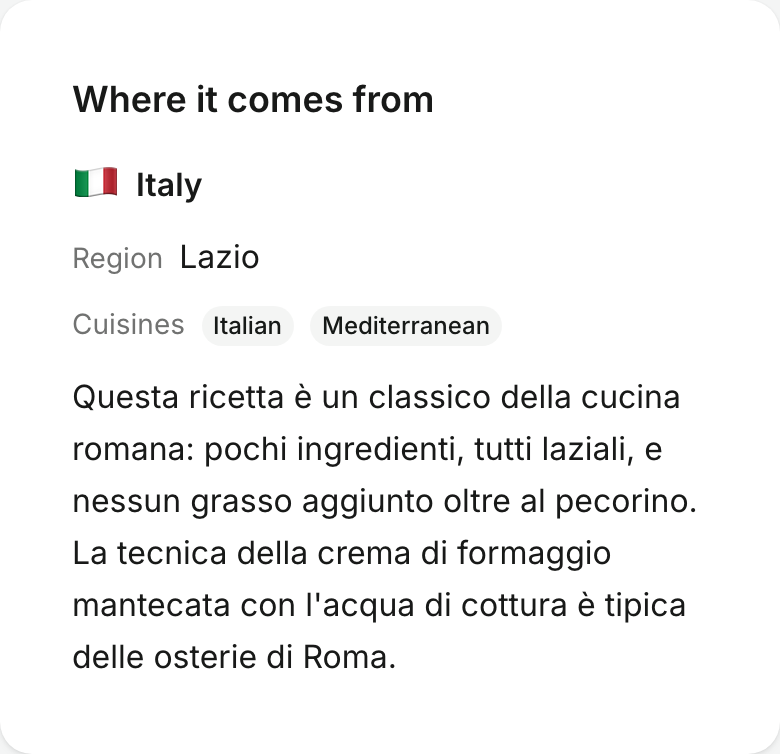
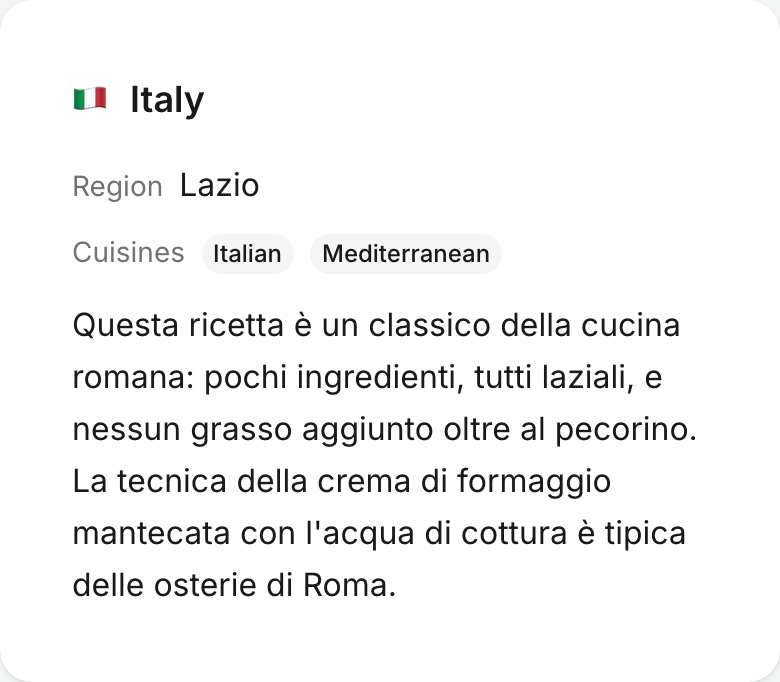
docs: follow the retitled Recipe Provenance section
The pages still described a section headed "Where it comes from" sitting
below the notes, and said nothing about the flag on the dashboard.

The screenshot script's anchor moves with it: the card titles itself with
the country now, so there is no fixed section name to locate it by.

Changed region(s): [[0.0923, 0.2155, 0.8923, 0.893], [0.0923, 0.0924, 0.5538, 0.1848]]

diff --git a/apps/web/e2e-ai/docs-screenshots.shot.ts b/apps/web/e2e-ai/docs-screenshots.shot.ts
@@ -167,9 +167,11 @@ test("provenance on the recipe page", async () => {
     await expect(page.getByText("Italy").first()).toBeVisible({ timeout: 3_000 });
   }).toPass({ timeout: 60_000, intervals: [1_000, 2_000, 5_000] });
 
+  // The card titles itself with the country once one is known, so that heading
+  // is what identifies it — there is no fixed section name to anchor on.
   const section = page
     .locator("div.md\\:block")
-    .getByRole("heading", { name: "Where it comes from" })
+    .getByRole("heading", { name: "Italy", exact: true, level: 2 })
     .locator("xpath=ancestor::div[contains(@class,'rounded-2xl')][1]");
 
   await shoot(section, "provenance-recipe");

diff --git a/apps/docs/docs/recipes/provenance.md b/apps/docs/docs/recipes/provenance.md
@@ -14,10 +14,14 @@ Provenance is where a recipe comes from. Norish records four things:
   several
 - **Note** — a couple of sentences explaining how that was concluded
 
-It appears in its own section on the recipe page, and the country's flag also
-flies in front of the recipe's title. The country is shown with its flag and
-named **in your own language**, because Norish stores the country code rather
-than a name. The region and the note are shown exactly as written.
+It appears in its own section on the recipe page, just above the notes, and the
+country is that section's own heading — with its flag, and named **in your own
+language**, because Norish stores the country code rather than a name. Until
+there is a country the section simply calls itself **Provenance**. The region
+and the note are shown exactly as written.
+
+The flag also flies in front of the recipe's title, and beside every recipe on
+your dashboard, so you can see at a glance where a dish comes from.
 
 ![Recipe provenance on a recipe page](/img/screenshots/provenance-recipe.png)
 

diff --git a/apps/docs/docs/release-notes/0.20.0-beta.md b/apps/docs/docs/release-notes/0.20.0-beta.md
@@ -48,9 +48,10 @@ hardens account switching on shared browsers.
 ### Recipe provenance: where a recipe comes from
 
 - Norish can now work out **where a recipe comes from** and show it on the
-  recipe page: the country with its flag, a finer-grained region when the dish
-  warrants one, the cuisines it belongs to, and a short written explanation. The
-  country's flag also flies in front of the recipe's title.
+  recipe page, just above your notes: the country as the section's own heading,
+  a finer-grained region when the dish warrants one, the cuisines it belongs to,
+  and a short written explanation. The country's flag also flies in front of the
+  recipe's title and beside every recipe on your dashboard.
 - The country is named **in your own language** wherever you read it. The
   explanation is written in **the language the recipe itself is written in** — an
   Italian recipe gets an Italian note beside its Italian steps — because it is
